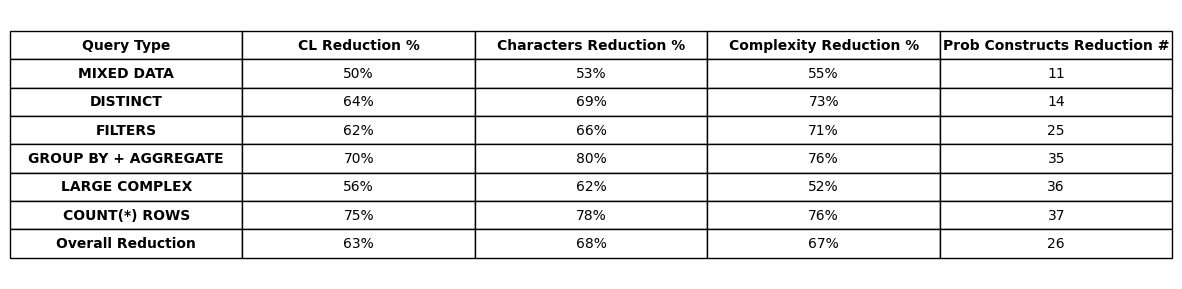
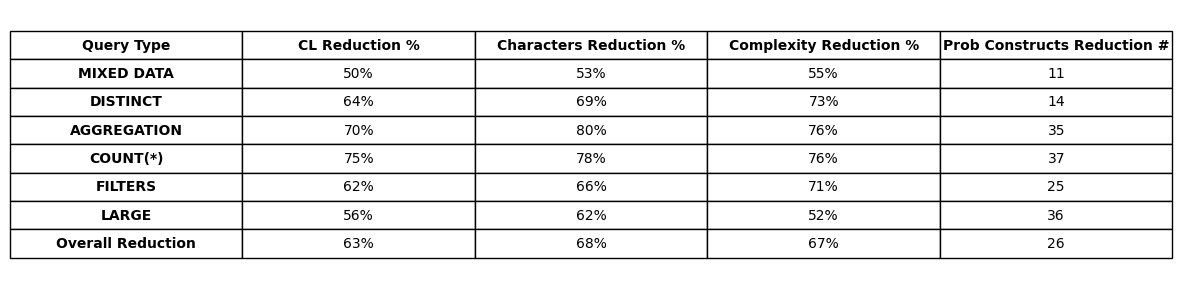
Finalize test labels change

diff --git a/translations/manual_translations.py b/translations/manual_translations.py
@@ -1,20 +1,18 @@
-############## SIMPLE ##############
-# 1⚡
+############ 1 ⚡ SIMPLE ############
 manual_test_join_1 = """
 SELECT p.companion AS person, w.witness, w.cat_name, w.color, w.breed
 FROM witnessed w
 JOIN plays p ON w.cat_name = p.cat_name AND w.color = p.color AND w.breed = p.breed
 """
 
-# 1⚡
 manual_test_join_2 = """
 SELECT p.companion, w.witness, w.cat_name, w.color, w.breed, w.age
 FROM witnessed w
 JOIN plays p ON w.cat_name = p.cat_name AND w.color = p.color;
 """
 
-############## JOIN ##############
-# 2⚡
+
+############ 2 ⚡ JOIN + PROBABILITY ############
 manual_test_join_3 = """
 SELECT p.companion AS person, w.witness, w.cat_name, w.color, w.breed,
        ROUND(prob(d.dict, w._sentence & p._sentence)::numeric, 4) AS probability
@@ -23,7 +21,6 @@ RIGHT JOIN plays p ON w.cat_name = p.cat_name AND w.color = p.color AND w.breed 
 JOIN _dict d ON d.name = 'cats_short';
 """
 
-# 2 ⚡
 manual_test_join_8 = """
 SELECT w.witness, p.companion AS player, c.caretaker, o.owner, w.cat_name,
        ROUND(prob(d.dict, w._sentence & p._sentence & c._sentence & o._sentence)::numeric, 4) AS probability,
@@ -36,8 +33,7 @@ JOIN _dict d ON d.name = 'cats_short';
 """
 
 
-############## AGGREGATION ##############
-# 3⚡
+############ 5 ⚡ AGGREGATION ############
 manual_test_agg_1 = """
 SELECT cat_name, avg, round(prob(d.dict, v._sentence)::numeric, 4) AS probability, _sentence
 FROM (
@@ -65,7 +61,6 @@ ORDER BY cat_name
 LIMIT 10;
 """
 
-# 3⚡
 manual_test_agg_6 = """
 SELECT cat_name, count, round(prob(d.dict, v._sentence)::numeric, 4) AS probability, _sentence
 FROM (
@@ -92,8 +87,8 @@ JOIN _dict d ON d.name = 'cats_short'
 ORDER BY cat_name;
 """
 
-############## DISTINCT ##############
-# 4⚡
+
+############ 4 ⚡ DISTINCT ############
 manual_test_distinct_2 = """
 SELECT color
 FROM (
@@ -109,7 +104,6 @@ WHERE probability > 0.5
 ORDER BY color;
 """
 
-# 4⚡
 manual_test_distinct_4 = """ 
 SELECT age, probability
 FROM (
@@ -126,8 +120,8 @@ WHERE probability > 0.5
 ORDER BY age;
 """
 
-############### WHERE and HAVING ##############
-# 5⚡
+
+############ 7 ⚡ FILTERS ############
 manual_test_where_1 = f"""
 SELECT witness, person, cat_name, color, probability, _sentence
 FROM (
@@ -145,7 +139,6 @@ ORDER BY witness DESC, probability ASC
 LIMIT 10;
 """
 
-# 5⚡
 manual_test_where_having_1 = """
 SELECT cat_name, COUNT, probability, _sentence
 FROM (
@@ -178,8 +171,7 @@ LIMIT 10;
 """
 
 
-############### LARGE QUERY manual_tests ##############
-# 6⚡
+############ 8 ⚡ LARGE ############
 manual_test_large_query_1 = """
 SELECT witness, player, caretaker, owner, cat_name, probability, _sentence
 FROM (
@@ -198,7 +190,6 @@ ORDER BY witness DESC, probability ASC
 LIMIT 10;
 """
 
-# 6⚡
 manual_test_large_query_3 = """
 SELECT witness, companion, caretaker, owner, cat_name, color_count, probability, _sentence
 FROM (
@@ -232,8 +223,8 @@ ORDER BY witness DESC, probability ASC
 LIMIT 10;
 """
 
-############### AGG ALL QUERY manual_tests ##############
-# 7⚡
+
+############ 6 ⚡ COUNT(*) ############
 manual_test_agg_all_3 = """
 SELECT count_rows, probability, _sentence
 FROM (
@@ -263,7 +254,6 @@ FROM (
 WHERE probability > 0 AND count_rows > 0;
 """
 
-# 7⚡
 manual_test_agg_all_5 = """
 SELECT count_rows, probability, _sentence
 FROM (
@@ -294,8 +284,7 @@ WHERE count_rows > 0;
 """
 
 
-############### MIXED DATA ##############
-# 8⚡
+############ 3 ⚡ MIXED DATA ############
 manual_test_mixed_data_1 = """
 SELECT witness, cat_id, cat_name, color, breed
 FROM (
@@ -311,7 +300,6 @@ WHERE probability > 0.5
 ORDER BY cat_id;
 """
 
-# 8⚡
 manual_test_mixed_data_3 = """
 SELECT caretaker, cat_id, cat_name, breed, age, _sentence
 FROM (

diff --git a/translations/automatic_translations.py b/translations/automatic_translations.py
@@ -1,4 +1,4 @@
-############ 1⚡ ############
+############ 1 ⚡ SIMPLE ############
 auto_test_join_1 = """
 DROP VIEW IF EXISTS prob_view CASCADE;
 DROP VIEW IF EXISTS join_view CASCADE;
@@ -25,7 +25,7 @@ SELECT companion, witness, cat_name, color, breed, age
 FROM join_view;
 """
 
-############ 2⚡ ############
+############ 2 ⚡ JOIN + PROBABILITY ############
 auto_test_join_3 = """
 DROP VIEW IF EXISTS prob_view CASCADE;
 DROP VIEW IF EXISTS join_view CASCADE;
@@ -64,7 +64,8 @@ SELECT witness, player, caretaker, owner, cat_name, probability, _sentence
 FROM prob_view;
 """
 
-############ 3⚡ ############
+
+############ 5 ⚡ AGGREGATION ############
 auto_test_agg_1 = """
 DROP VIEW IF EXISTS prob_view CASCADE;
 DROP VIEW IF EXISTS agg_view CASCADE;
@@ -134,7 +135,8 @@ FROM prob_view
 ORDER BY cat_name;
 """
 
-############ 4⚡ ############
+
+############ 4 ⚡ DISTINCT ############
 auto_test_distinct_2 = """
 DROP VIEW IF EXISTS prob_view CASCADE;
 DROP VIEW IF EXISTS join_view CASCADE;
@@ -177,7 +179,7 @@ ORDER BY age;
 """
 
 
-############ 5⚡ ############
+############ 7 ⚡ FILTERS ############
 auto_test_where_1 = """
 DROP VIEW IF EXISTS prob_view CASCADE;
 DROP VIEW IF EXISTS join_view CASCADE;
@@ -237,7 +239,7 @@ LIMIT 10;
 """
 
 
-############ 6⚡ ############
+############ 8 ⚡ LARGE ############
 auto_test_large_query_1 = """
 DROP VIEW IF EXISTS prob_view CASCADE;
 DROP VIEW IF EXISTS join_view CASCADE;
@@ -300,7 +302,7 @@ LIMIT 10;
 """
 
 
-############ 7⚡ ############
+############ 6 ⚡ COUNT(*) ############
 auto_test_agg_all_3 = """
 DROP VIEW IF EXISTS prob_view CASCADE;
 DROP VIEW IF EXISTS agg_all_view CASCADE;
@@ -370,7 +372,7 @@ WHERE count_rows > 0;
 """
 
 
-############ 8⚡ ############
+############ 3 ⚡ MIXED DATA ############
 auto_test_mixed_data_1 = """
 DROP VIEW IF EXISTS prob_view CASCADE;
 DROP VIEW IF EXISTS join_view CASCADE;
